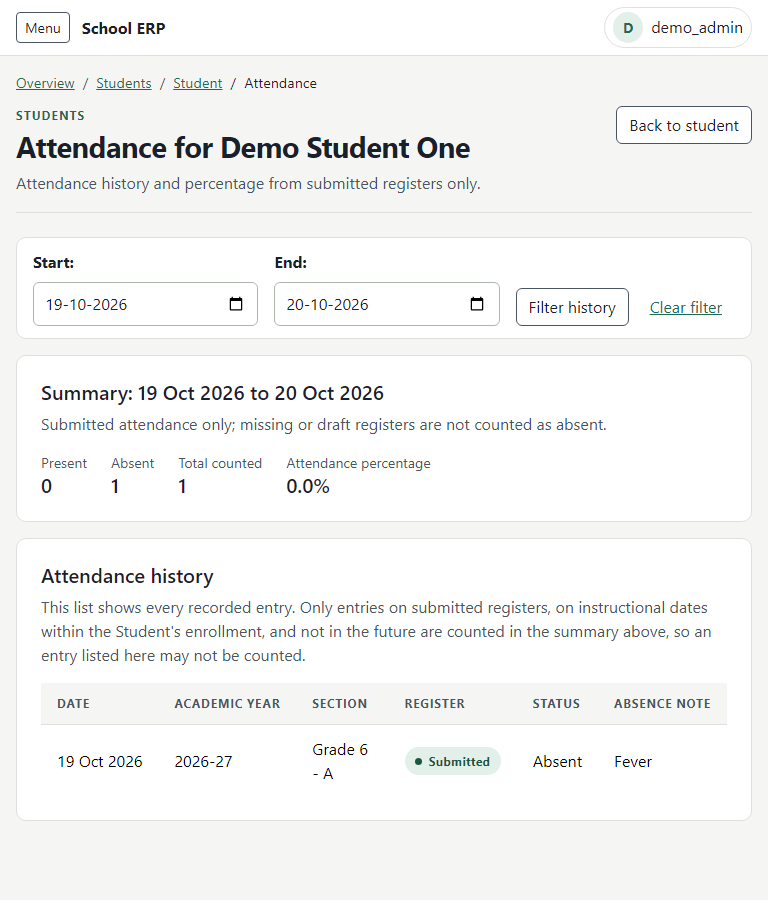
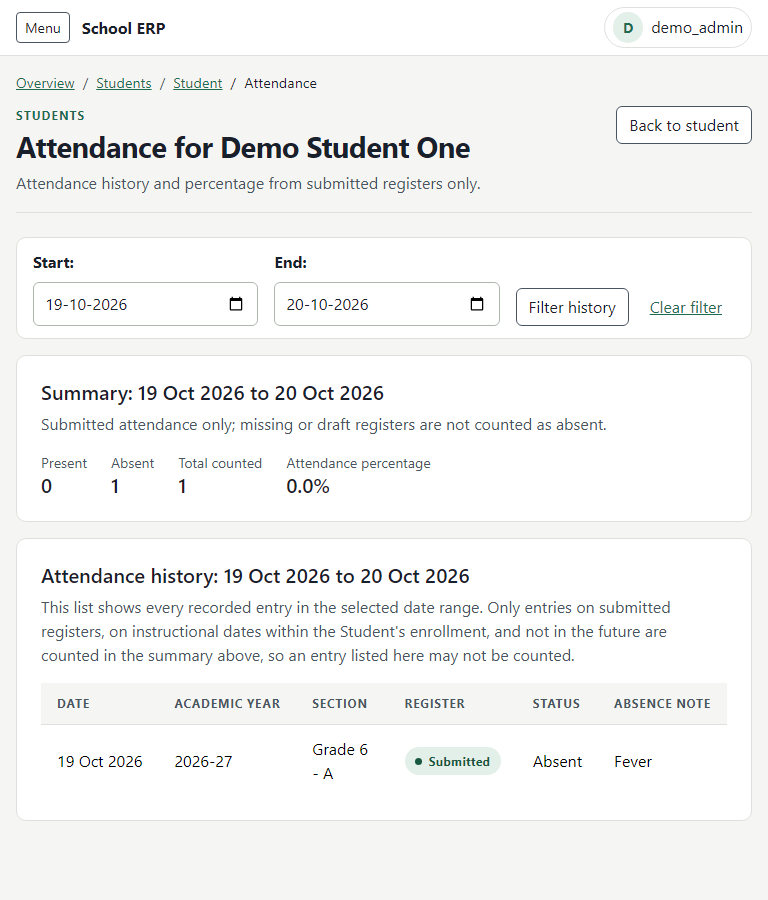
fix(ui): D1-4C-2 Student history heading and note follow the applied filter
History H2 shows the applied range (start+end, start-only, end-only) like the Summary;
the note says 'in the selected date range' only for valid filters; caption is neutral.
Tests assert headings for every filter state. Template only.

Changed region(s): [[0.0625, 0.6222, 0.9375, 0.7467]]

diff --git a/core/templates/core/student_attendance.html b/core/templates/core/student_attendance.html
@@ -40,19 +40,22 @@
 </section>
 <section class="erp-panel p-3 p-md-4" aria-labelledby="student-history-title">
     <div class="erp-panel-head mb-3">
-        <h2 class="h5" id="student-history-title">Attendance history{% if form.is_bound and form.errors %}: all recorded attendance{% endif %}</h2>
+        <h2 class="h5" id="student-history-title">
+            Attendance history{% if form.is_bound and form.errors %}: all recorded attendance{% elif form.is_bound and form.cleaned_data.start and form.cleaned_data.end %}: {{ form.cleaned_data.start|date:"j M Y" }} to {{ form.cleaned_data.end|date:"j M Y" }}{% elif form.is_bound and form.cleaned_data.start %}: from {{ form.cleaned_data.start|date:"j M Y" }}{% elif form.is_bound and form.cleaned_data.end %}: up to {{ form.cleaned_data.end|date:"j M Y" }}{% endif %}
+        </h2>
         {% if form.is_bound and form.errors %}
         <p class="erp-note-text"><strong>The date filter was not applied; showing all recorded attendance.</strong></p>
         {% endif %}
         <p class="erp-note-text">
-            This list shows every recorded entry. Only entries on submitted registers, on instructional dates
+            {% if form.is_bound and not form.errors and form.cleaned_data.start or form.is_bound and not form.errors and form.cleaned_data.end %}This list shows every recorded entry in the selected date range.{% else %}This list shows every recorded entry.{% endif %}
+            Only entries on submitted registers, on instructional dates
             within the Student's enrollment, and not in the future are counted in the summary above, so an entry
             listed here may not be counted.
         </p>
     </div>
     <div class="erp-table-scroll" role="region" aria-label="Attendance history" tabindex="0">
     <table class="table">
-        <caption class="visually-hidden">Every recorded attendance entry for {{ student.full_name }}, by date.</caption>
+        <caption class="visually-hidden">Recorded attendance entries for {{ student.full_name }}, by date.</caption>
         <thead>
             <tr>
                 <th scope="col">Date</th>

diff --git a/core/tests/test_ui_admin_desktop_d1_4c2_monthly_student_history.py b/core/tests/test_ui_admin_desktop_d1_4c2_monthly_student_history.py
@@ -347,6 +347,77 @@ class StudentHistoryTests(AriaAssertions, C2Fixture, TestCase):
         self.assertNotIn("Summary:", content)
         self.assertNotIn("form-error-summary", content)
 
+    def headings(self, params=None):
+        """The Summary and History H2 texts (whitespace collapsed) and the History note."""
+        content = self.client.get(self.history, params or {}).content.decode()
+
+        def text(pattern):
+            match = re.search(pattern, content, re.S)
+            return re.sub(r"\s+", " ", re.sub(r"<[^>]+>", "", match.group(1))).strip()
+
+        return (
+            text(r'id="student-summary-title">(.*?)</h2>'),
+            text(r'id="student-history-title">(.*?)</h2>'),
+            text(r'(This list shows every recorded entry[^<]*?)\s*Only entries'),
+            content,
+        )
+
+    def test_summary_and_history_headings_for_every_filter_state(self):
+        both = {"start": MON.isoformat(), "end": TUE.isoformat()}
+        cases = (
+            # (query, summary heading, history heading, history note)
+            ({}, "Summary", "Attendance history", "This list shows every recorded entry."),
+            ({"start": "", "end": ""}, "Summary", "Attendance history", "This list shows every recorded entry."),
+            (
+                both,
+                "Summary: 6 Jul 2026 to 7 Jul 2026",
+                "Attendance history: 6 Jul 2026 to 7 Jul 2026",
+                "This list shows every recorded entry in the selected date range.",
+            ),
+            (
+                {"start": TUE.isoformat()},
+                "Summary: from 7 Jul 2026",
+                "Attendance history: from 7 Jul 2026",
+                "This list shows every recorded entry in the selected date range.",
+            ),
+            (
+                {"end": TUE.isoformat()},
+                "Summary: up to 7 Jul 2026",
+                "Attendance history: up to 7 Jul 2026",
+                "This list shows every recorded entry in the selected date range.",
+            ),
+            (
+                {"start": WED.isoformat(), "end": MON.isoformat()},
+                "Summary: all recorded attendance",
+                "Attendance history: all recorded attendance",
+                "This list shows every recorded entry.",
+            ),
+            (
+                {"start": "x"},
+                "Summary: all recorded attendance",
+                "Attendance history: all recorded attendance",
+                "This list shows every recorded entry.",
+            ),
+        )
+        for params, summary, history, note in cases:
+            with self.subTest(params=params):
+                got_summary, got_history, got_note, content = self.headings(params)
+                self.assertEqual(got_summary, summary)
+                self.assertEqual(got_history, history)
+                self.assertEqual(got_note, note)
+                # The counting rule is explained in every state.
+                self.assertIn("listed here may not be counted", re.sub(r"\s+", " ", content))
+                invalid = "all recorded attendance" in history
+                self.assertEqual(content.count(self.NOT_APPLIED), 2 if invalid else 0)
+
+    def test_a_filtered_history_never_claims_to_contain_entries_outside_the_range(self):
+        response = self.client.get(self.history, {"start": MON.isoformat(), "end": MON.isoformat()})
+        self.assertEqual([e.register.date for e in response.context["entries"]], [MON])
+        content = re.sub(r"\s+", " ", response.content.decode())
+        self.assertIn("every recorded entry in the selected date range", content)
+        self.assertNotIn("This list shows every recorded entry.", content)
+        self.assertNotIn("Every recorded attendance entry", content)  # the table caption is neutral too
+
     def test_toolbar_fields_and_button(self):
         content = self.client.get(self.history).content.decode()
         tag = content.split('aria-label="Filter attendance by date"')[1].split("</form>")[0]

diff --git a/docs/ui-reviews/ui-d1-4c2/README.md b/docs/ui-reviews/ui-d1-4c2/README.md
@@ -44,6 +44,20 @@ Widths shot: 1440, 1280, 1024, 992, 768, 390 (full-page PNG). Restricted users: 
 
 Review-driven fixes made during capture: the first capture showed the Monthly table 9px wider than its region at 390px, so the three numeric columns use tighter padding on phones; and the keyboard-scroll probe was changed from End (which scrolls vertically) to ArrowRight.
 
+## Review correction: Attendance history heading and note follow the filter
+
+Review asked for the History H2 to show the applied range like the Summary H2. Student history (`student_attendance.html` only; no view, form or report change) now reads, for both headings:
+
+| State | Summary / History heading suffix | History note | "Not applied" disclosure |
+| --- | --- | --- | --- |
+| First load, or bound with empty dates | none (unchanged) | "This list shows every recorded entry." | 0 |
+| Start + End | `: 19 Oct 2026 to 20 Oct 2026` | "…every recorded entry in the selected date range." | 0 |
+| Start only | `: from 7 Oct 2026` style | "…in the selected date range." | 0 |
+| End only | `: up to 7 Oct 2026` style | "…in the selected date range." | 0 |
+| Invalid (bad date, start after end) | `: all recorded attendance` (unchanged) | "This list shows every recorded entry." | exactly 2 |
+
+The table caption is now the neutral "Recorded attendance entries for …, by date." so it cannot imply entries outside the range. The counting explanation ("only entries on submitted registers, on instructional dates within the Student's enrollment, and not in the future are counted… an entry listed here may not be counted") is shown in every state. Screenshots refreshed (all 90); `history-filtered-1440.png` and `history-filtered-390.png` show the matching headings. Re-measured: document overflow 0px at 360 to 1440, 0 dangling `aria-describedby`, "not applied" note 0 / 0 / 2 / 2 on first load / filtered / the two invalid states, summary link focuses `#id_start`, 3px focus outline. Final results: `manage.py check` clean; focused set **221 OK**; **full PostgreSQL `--parallel 4`: 2593 tests OK**.
+
 ## Known limits
 
 - SQLite, synthetic data; no staging or production verification.
